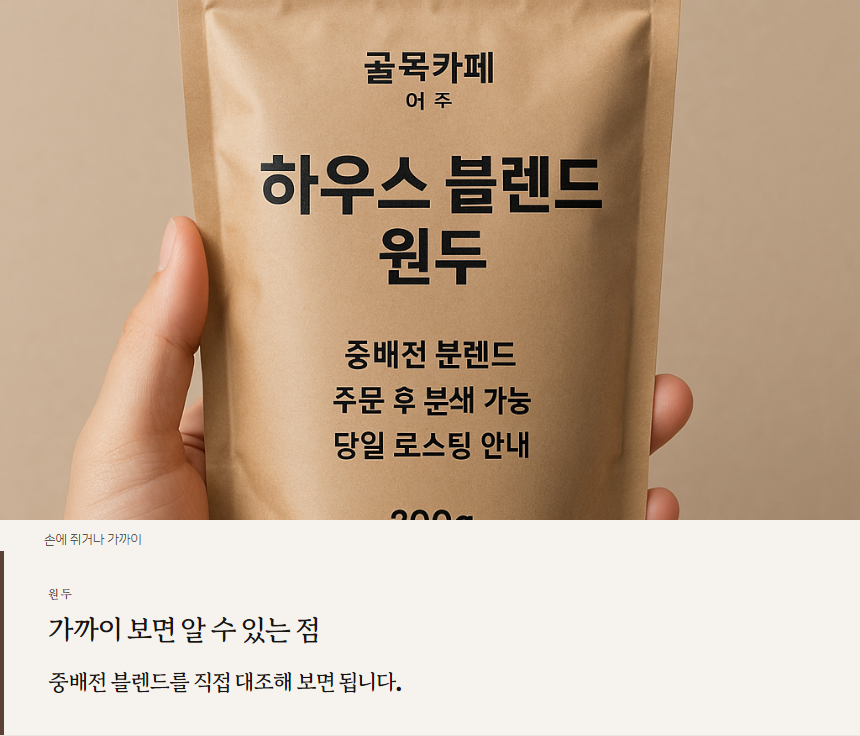
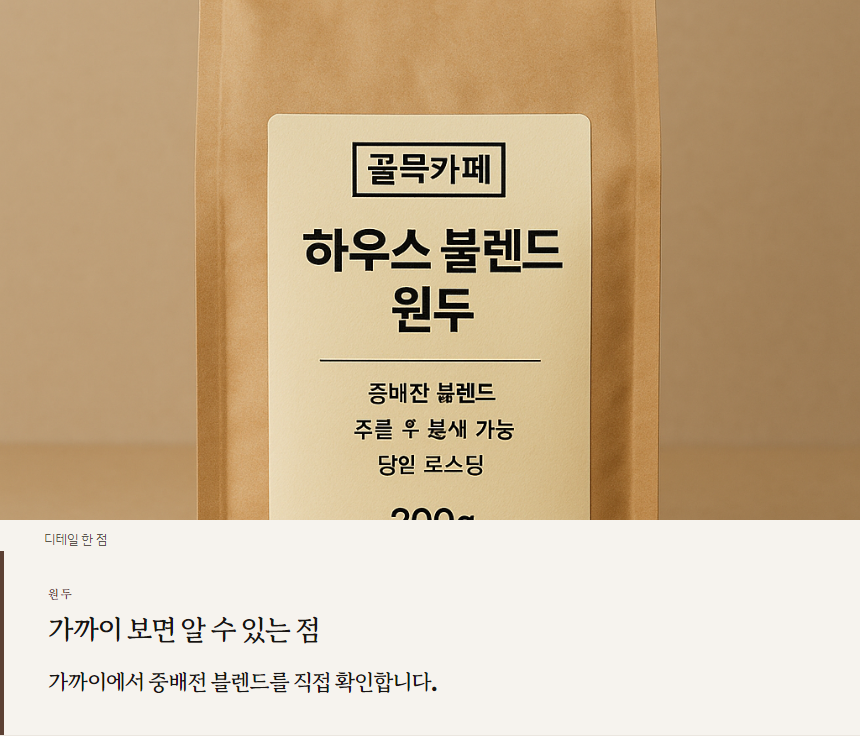
Ship detail pages as same-SKU image stacks and raise the designer gate to 90.

diff --git a/lib/product/detailPageShotGen.js b/lib/product/detailPageShotGen.js
@@ -8,7 +8,7 @@ import {
   normalizeDetailPagePhotos,
 } from "@/lib/product/detailPagePhotos";
 
-export const DETAIL_PAGE_SHOT_GEN_VERSION = "detail-shot-gen-v1";
+export const DETAIL_PAGE_SHOT_GEN_VERSION = "detail-shot-gen-v2";
 
 /** 붙이는 화면에 꼭 필요한 3컷. 디자이너 포토 시퀀스(백승우) 기준. */
 export const DETAIL_PAGE_CORE_SHOTS = Object.freeze(["hero", "observe", "feature"]);
@@ -39,7 +39,9 @@ function shotPrompt(slot, input = {}) {
     `Product: ${product}${brand ? `, brand ${brand}` : ""}${region ? `, from ${region}` : ""}.`,
     features ? `Visible facts only: ${features}.` : "",
     `Camera shot: ${dir.shot}. ${dir.hint || ""}`.trim(),
-    "Catalog lighting, beige paper studio, sharp focus, no people, no fashion models, no hands unless the shot is a close product detail.",
+    "ONE physical SKU only. Same bag material, same label layout, same brand mark, same product name, same weight.",
+    "Do not invent a second packaging. Do not switch a sticker label to a printed bag.",
+    "Catalog lighting, beige paper studio, sharp focus, no people, no fashion models, no hands.",
     "No invented certifications, no fake review stars, no other-brand logos, no text overlay, no watermark, no collage.",
     "Do not render unreadable Korean packaging claims. Keep the bag/pack simple and physical.",
   ]
@@ -67,13 +69,22 @@ export function listMissingDetailPageShots(existing = [], slots = DETAIL_PAGE_CO
   return missing;
 }
 
+function cloneSkuPhotos(donor, slots, extra = {}) {
+  return slots.map((slot) => ({
+    src: donor.src,
+    caption: DETAIL_PAGE_PHOTO_DIRECTION[slot]?.shot || slot,
+    slot,
+    generated: extra.generated === true || donor.generated === true,
+    clonedFrom: extra.clonedFrom || donor.slot || "hero",
+    provider: extra.provider || donor.provider,
+    model: extra.model || donor.model,
+  }));
+}
+
 export async function generateDetailPageShots(input = {}, options = {}) {
   const existing = normalizeDetailPagePhotos(options.photos || input.photos || []);
   if (options.allowImages === false) {
     return { ok: true, photos: existing, generated: [], skipped: "disabled" };
-  }
-  if (!getImageProviderStatus().any) {
-    return { ok: true, photos: existing, generated: [], skipped: "no_provider" };
   }
 
   const slots = Array.isArray(options.slots) && options.slots.length
@@ -84,38 +95,51 @@ export async function generateDetailPageShots(input = {}, options = {}) {
     return { ok: true, photos: existing, generated: [], skipped: "filled" };
   }
 
-  const generated = [];
-  const errors = [];
-  const results = await Promise.allSettled(
-    missing.map(async (slot) => {
-      const result = await generateChannelImage(shotPrompt(slot, input), {
-        ratio: RATIO_BY_SLOT[slot] || "1:1",
-        provider: options.provider || "auto",
-      });
-      return {
-        src: result.imageUrl,
-        caption: DETAIL_PAGE_PHOTO_DIRECTION[slot]?.shot || slot,
-        slot,
-        generated: true,
-        provider: result.provider,
-        model: result.model,
-      };
-    })
-  );
-
-  for (const item of results) {
-    if (item.status === "fulfilled" && item.value?.src) {
-      generated.push(item.value);
-    } else if (item.status === "rejected") {
-      errors.push(String(item.reason?.message || item.reason || "fail"));
-    }
+  const donor = existing.find((p) => p.slot === "hero") || existing[0];
+  if (donor?.src) {
+    const cloned = cloneSkuPhotos(donor, missing);
+    return {
+      ok: true,
+      photos: [...existing, ...cloned],
+      generated: [],
+      skipped: "same_sku",
+    };
   }
 
-  return {
-    ok: generated.length > 0 || existing.length > 0,
-    photos: [...existing, ...generated],
-    generated,
-    errors,
-    skipped: generated.length ? "" : "generate_failed",
-  };
+  if (!getImageProviderStatus().any) {
+    return { ok: true, photos: existing, generated: [], skipped: "no_provider" };
+  }
+
+  const primary = missing.includes("hero") ? "hero" : missing[0];
+  try {
+    const result = await generateChannelImage(shotPrompt(primary, input), {
+      ratio: RATIO_BY_SLOT[primary] || "4:5",
+      provider: options.provider || "auto",
+    });
+    const generated = cloneSkuPhotos(
+      { src: result.imageUrl, slot: primary },
+      missing,
+      {
+        generated: true,
+        clonedFrom: primary,
+        provider: result.provider,
+        model: result.model,
+      }
+    );
+    return {
+      ok: true,
+      photos: [...existing, ...generated],
+      generated,
+      errors: [],
+      skipped: "",
+    };
+  } catch (err) {
+    return {
+      ok: existing.length > 0,
+      photos: existing,
+      generated: [],
+      errors: [String(err?.message || err || "fail")],
+      skipped: "generate_failed",
+    };
+  }
 }

diff --git a/lib/qa/detailPageDesignerVision.js b/lib/qa/detailPageDesignerVision.js
@@ -7,7 +7,8 @@ import { isOpenAIConfigured } from "@/lib/llm/llmProvider";
 import { parseOpenAIJson } from "@/lib/prompts/parseResponse";
 import { inspectDetailPageScreenshots } from "@/lib/qa/detailPagePageImage";
 
-export const DETAIL_PAGE_DESIGNER_VISION_VERSION = "gollaboda-designer-vision-v1";
+export const DETAIL_PAGE_DESIGNER_VISION_VERSION = "gollaboda-designer-vision-v2";
+export const DETAIL_PAGE_DESIGNER_VISION_MIN = 90;
 
 export const DETAIL_PAGE_IMAGE_DESIGNER = Object.freeze({
   id: "d01",
@@ -19,8 +20,9 @@ export const DETAIL_PAGE_IMAGE_DESIGNER = Object.freeze({
 const SYSTEM = [
   "당신은 스마트스토어·쿠팡 상세페이지 디자이너다. 글을 읽지 말고 이미지를 본다.",
   "이 화면은 860px 상세다. 첫 컷은 첫눈, 둘째가 있으면 중간 스크롤.",
-  "출고 OK: 깨진 칸 없음, 첫눈에 상품 사진, 글자 벽이 아님, 가짜 후기·모델컷·지금 바로 구매 없음.",
-  "감점하면 안 되는 것: 가격·혜택·강한 CTA 없음(약한 안내가 맞다), 없는 연출컷·밥 클로즈업 요구, 막히는 점부터 시작하는 카피.",
+  "출고 OK: 깨진 칸 없음, 첫눈에 상품 사진, 글자 벽이 아님, 가짜 후기·모델컷·지금 바로 구매 없음. 점수는 90 이상이어야 출고.",
+  "감점하면 안 되는 것: 가격·혜택·강한 CTA 없음(약한 안내가 맞다), 없는 연출컷·밥 클로즈업 요구, 막히는 점부터 시작하는 카피, 같은 포장을 크롭만 다르게 쓰는 것.",
+  "감점하는 것: 컷마다 포장 디자인이 다른 상품처럼 보임.",
   "상세는 이미지여야 한다. 카피만 있는 나열이면 실패.",
   'JSON만: {"score":0-100,"pass":true,"firstGlance":true,"isImageNotEssay":true,"issues":[],"note":""}',
 ].join("\n");
@@ -111,7 +113,9 @@ export async function reviewDetailPageDesignerImage(args = {}) {
     ? parsed.issues.map((s) => String(s || "").trim()).filter(Boolean).slice(0, 6)
     : [];
   const ok =
-    score >= 70 && parsed.isImageNotEssay !== false && parsed.firstGlance !== false;
+    score >= DETAIL_PAGE_DESIGNER_VISION_MIN &&
+    parsed.isImageNotEssay !== false &&
+    parsed.firstGlance !== false;
 
   return {
     version: DETAIL_PAGE_DESIGNER_VISION_VERSION,

diff --git a/components/DetailPageGenerator.jsx b/components/DetailPageGenerator.jsx
@@ -24,7 +24,6 @@ import {
 import { DETAIL_PAGE_MALLS } from "@/lib/product/detailPageCompeteWins";
 import {
   renderDetailPageBodyHtml,
-  wrapMallHtml,
   wrapDetailPageImageStackHtml,
   packToPlainText,
 } from "@/lib/product/detailPageHtml";
@@ -494,25 +493,29 @@ export default function DetailPageGenerator({ onCopy, onToast, surface: _surface
       : [{ src: pageImage, alt: pack.productName || "상품" }].filter((item) => item.src);
     const html = images.length
       ? wrapDetailPageImageStackHtml(images, pack, mall.id)
-      : wrapMallHtml(renderDetailPageBodyHtml(pack, photosNorm), pack, mall.id);
+      : "";
+    if (!html) {
+      onToast?.("상세 이미지가 아직입니다. 잠시 후 다시 저장해 주세요.");
+      return;
+    }
     await navigator.clipboard.writeText(html);
     setCopiedMall(mall.id);
     onCopy?.(html);
     onToast?.(
-      images.length
-        ? `${mall.label}용 상세 이미지를 복사했습니다. 아래에서 이미지를 올리세요.`
-        : `${mall.label}용 HTML 원판을 복사했습니다.`
+      `${mall.label}용 상세 이미지를 복사했습니다. 아래에서 이미지를 올리세요.`
     );
-  }, [pack, photosNorm, mallImages, pageImage, onCopy, onToast]);
+  }, [pack, mallImages, pageImage, onCopy, onToast]);
 
   const downloadHtml = useCallback(() => {
     if (!pack) return;
-    const html = mallImages.length
-      ? wrapDetailPageImageStackHtml(mallImages, pack, "smartstore")
-      : wrapMallHtml(renderDetailPageBodyHtml(pack, photosNorm), pack, "smartstore");
+    if (!mallImages.length) {
+      onToast?.("상세 이미지가 아직입니다. 잠시 후 다시 저장해 주세요.");
+      return;
+    }
+    const html = wrapDetailPageImageStackHtml(mallImages, pack, "smartstore");
     const slug = (pack.productName || "detail").slice(0, 24);
     downloadText(`${slug}-상세.html`, html, "text/html;charset=utf-8");
-  }, [pack, photosNorm, mallImages]);
+  }, [pack, mallImages, onToast]);
 
   const downloadTxt = useCallback(() => {
     if (!pack) return;

diff --git a/lib/product/detailPageSuccessStandard.js b/lib/product/detailPageSuccessStandard.js
@@ -14,9 +14,9 @@ import { assessDetailPageStandard } from "@/lib/product/detailPageStandard";
 import { evaluateDetailPageDesignerPanel } from "@/lib/qa/detailPageDesignerPanel30";
 import { inspectDetailPageScreenshots } from "@/lib/qa/detailPagePageImage";
 
-export const DETAIL_PAGE_SUCCESS_VERSION = "gollaboda-success-v2";
-export const DETAIL_PAGE_SUCCESS_PASS_SCORE = 80;
-export const DETAIL_PAGE_SUCCESS_PANEL_MIN = 70;
+export const DETAIL_PAGE_SUCCESS_VERSION = "gollaboda-success-v3";
+export const DETAIL_PAGE_SUCCESS_PASS_SCORE = 90;
+export const DETAIL_PAGE_SUCCESS_PANEL_MIN = 90;
 export const DETAIL_PAGE_SUCCESS_UNIQUENESS_MIN = 58;
 export const DETAIL_PAGE_SUCCESS_PAD_MAX = 2;
 
@@ -35,7 +35,7 @@ export const DETAIL_PAGE_KOREA_FIRST = Object.freeze({
     "고르는 화면",
     "카테고리 한글·영문 글꼴",
     "패딩 0",
-    "디자이너 30인 평균 70",
+    "디자이너 30인 평균 90",
     "올린 사진 우선",
     "컷별 상품 사진 생성",
     "카테고리 상세 나열",
@@ -118,8 +118,8 @@ export const DETAIL_PAGE_SUCCESS_HARD_GATES = Object.freeze([
   },
   {
     id: "panel",
-    label: "디자이너 30인 70점",
-    fail: "화면 평균 70 미만이면 출고하지 않는다",
+    label: "디자이너 30인 90점",
+    fail: "화면 평균 90 미만이면 출고하지 않는다",
   },
   {
     id: "page_image",

diff --git a/components/DetailPageSampleZone.jsx b/components/DetailPageSampleZone.jsx
@@ -1,12 +1,10 @@
 "use client";
 
 import { useEffect, useRef, useState } from "react";
-import Link from "next/link";
 import LandingPanelHeader from "@/components/landing/LandingPanelHeader";
 import {
   DETAIL_PAGE_OPEN_EXAMPLES,
   detailPageSamplePageSrc,
-  detailPageSampleSrc,
   resolveDetailPageSampleId,
 } from "@/lib/product/detailPageCompanyPresets";
 import {
@@ -25,7 +23,6 @@ export default function DetailPageSampleZone({
   const current =
     DETAIL_PAGE_OPEN_EXAMPLES.find((ex) => ex.id === id) ||
     DETAIL_PAGE_OPEN_EXAMPLES[0];
-  const htmlSrc = detailPageSampleSrc(current.id);
   const frameRef = useRef(null);
   const [scale, setScale] = useState(1);
   const [stack, setStack] = useState([detailPageSamplePageSrc(current.id, "full")]);
@@ -111,15 +108,7 @@ export default function DetailPageSampleZone({
       </div>
 
       <p className="mt-3 text-center text-[13px] text-[var(--vision-muted)]">
-        스마트스토어·쿠팡에 위에서부터 올리는 860 이미지.{" "}
-        <Link
-          href={htmlSrc}
-          target="_blank"
-          rel="noreferrer"
-          className="font-semibold text-[var(--vision-ink)] underline-offset-2 hover:underline"
-        >
-          붙일 이미지 HTML
-        </Link>
+        스마트스토어·쿠팡에 위에서부터 올리는 860 이미지.
       </p>
     </div>
   );

diff --git a/lib/product/detailPagePhotos.js b/lib/product/detailPagePhotos.js
@@ -10,8 +10,8 @@ export const DETAIL_PAGE_PHOTO_DIRECTION = {
   intent: { shot: "고를 때 보는 면", hint: "멈추는 그 장면", height: 440, plate: "02" },
   explain: { shot: "이유 한 장", hint: "설명과 같이 읽히게", height: 440, plate: "03" },
   usp: { shot: "차이 한 점", hint: "카드 위에 얹히게", height: 440, plate: "04" },
-  observe: { shot: "손에 쥐거나 가까이", hint: "정사각에 가깝게", height: 520, plate: "05" },
-  feature: { shot: "디테일 한 점", hint: "가로 · 한 부분만", height: 480, plate: "06" },
+  observe: { shot: "손에 쥐거나 가까이", hint: "같은 포장 앞면을 가까이 크롭. 손·모델 없음", height: 520, plate: "05" },
+  feature: { shot: "디테일 한 점", hint: "같은 포장의 디테일 크롭. 다른 SKU로 바꾸지 않음", height: 480, plate: "06" },
   scene: { shot: "쓰는 장면", hint: "식탁·현장", height: 520, plate: "07" },
 };
 

diff --git a/lib/qa/detailPageDesignerPanel30.js b/lib/qa/detailPageDesignerPanel30.js
@@ -300,7 +300,7 @@ export function evaluateDetailPageDesignerPanel(input) {
       studio: d.studio,
       lens: d.lens,
       score,
-      pass: score >= 70,
+      pass: score >= 90,
       note: axisNote(d, measured),
     };
   });
@@ -316,7 +316,7 @@ export function evaluateDetailPageDesignerPanel(input) {
   if (measured.density < 60) issues.push("정보 밀도보다 글자 수");
   if (measured.visualLayouts < 3) issues.push("리스트가 화면 모듈이 아님");
   const hire =
-    mean >= 72 &&
+    mean >= 90 &&
     measured.uniqueness >= 58 &&
     measured.commercial >= 70 &&
     measured.lookedAtImage;

diff --git a/lib/product/detailPageEngine.js b/lib/product/detailPageEngine.js
@@ -182,7 +182,7 @@ function observeLine(feature, brandName) {
   if (/직접|현장|느껴|보면/.test(f) && /다\.|요\.|니다/.test(f)) {
     return firstSentence(f);
   }
-  return `${f}${eulReul(f)} 직접 대조해 보면 됩니다.`;
+  return `가까이에서 ${f}${eulReul(f)} 직접 확인합니다.`;
 }
 
 function oneLine(parts) {

diff --git a/AGENTS.md b/AGENTS.md
@@ -48,7 +48,7 @@ This version has breaking changes — APIs, conventions, and file structure may 
 `lib/product/detailPageSuccessStandard.js` — 「카피를 받았다」❌ → **「고르는 화면이 생겼다」** ✅
 
 엔진 95점(글자·구성)은 성공이 아님. 기획30 · 조사30 · 설명20 · 글10 · 검수10.
-검수는 디자이너 30인 패널(`lib/qa/detailPageDesignerPanel30.js`). 하드: 사실·약한 CTA · 문장 한 번 · 패딩 금지 · 패널 평균 70.
+검수는 디자이너 30인 패널(`lib/qa/detailPageDesignerPanel30.js`). 하드: 사실·약한 CTA · 문장 한 번 · 패딩 금지 · 패널 평균 90 · 상세 디자이너 비전 90.
 국내 1위는 슬로건이 아니라 이 출고 기준(`DETAIL_PAGE_KOREA_FIRST`). 챗봇 글·대행사 롱페이지·가짜 후기를 이긴다.
 지는 축 3개: 연출컷은 **컷별 상품 사진 생성**(올린 사진 우선, 가짜 모델컷 아님) · 예쁜 롱페이지는 첫눈 화면 · 멀티몰은 스마트스토어·쿠팡에 섹션 이미지(통이미지)를 올린다 (`lib/product/detailPageCompeteWins.js`). 상세페이지 AI의 핵심은 사진까지 있는 붙일 화면. 스마트스토어 상위 리듬은 `lib/product/detailPageRankingPlaybook.js` — 리스트가 주는 건 섹션 PNG 스택. 화면 순서와 이미지를 가져오고, 가짜 후기·모델컷·GIF·9몰은 가져오지 않는다. 텍스트 나열은 `lib/product/detailPageCategoryFlow.js` — 범용 5포인트 금지. 그 카테고리 상위 상세 순서(쌀: 산지→도정→중량→포장→원재료, 원두: 원산지→로스팅→분쇄→중량). 없는 품종·등급은 안 씀. **상세페이지는 이미지** — 860 PNG를 상세 디자이너가 본다 (`lib/qa/detailPageDesignerVision.js`). HTML 마커 점수만으로 출고하지 않는다.
 
